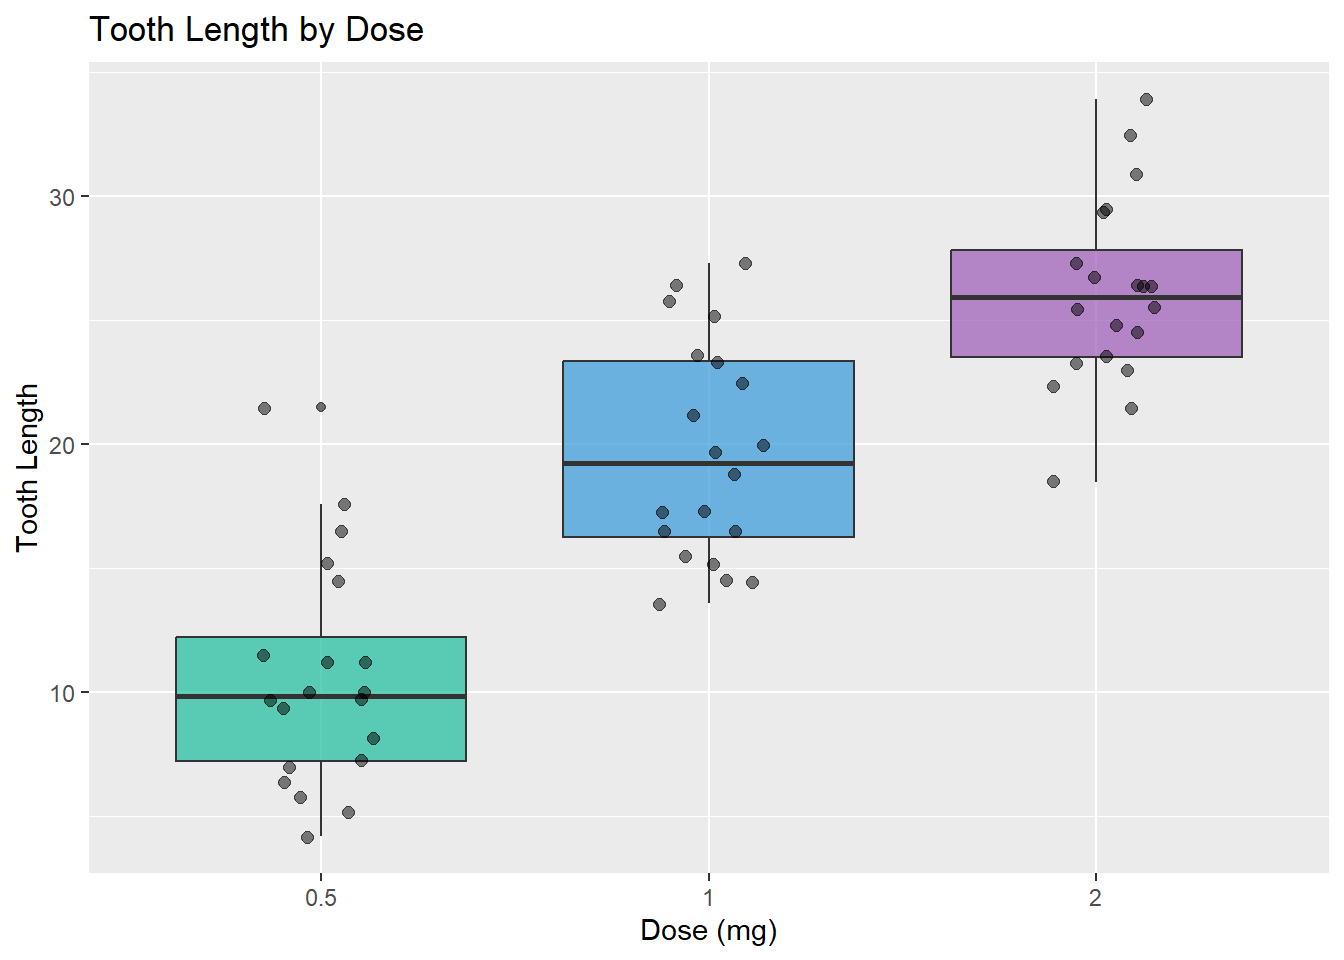
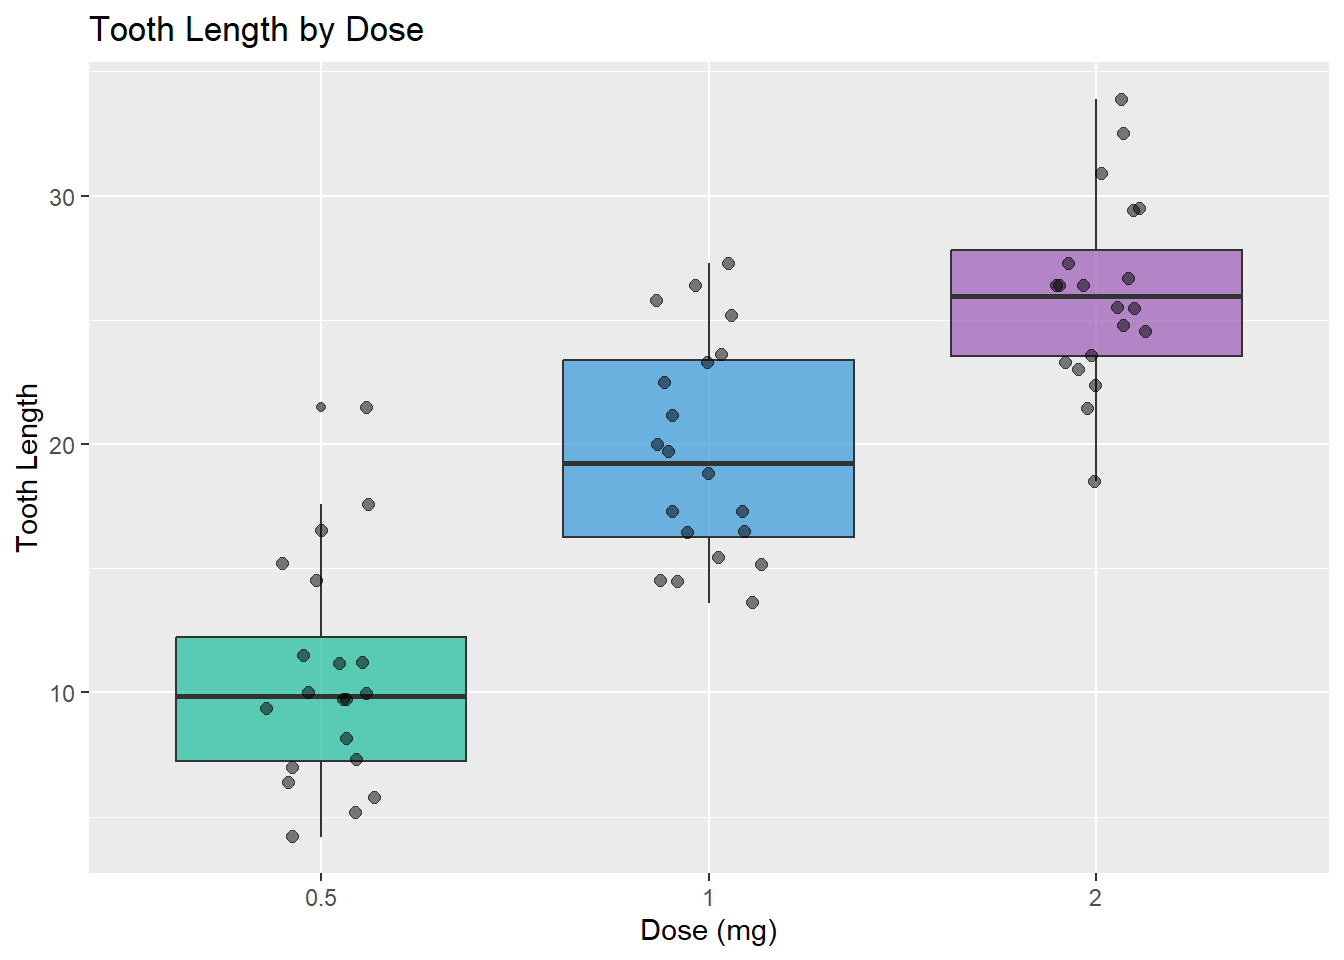
Built site for gh-pages

diff --git a/Lab/Lab.html b/Lab/Lab.html
@@ -140,7 +140,7 @@ pre > code.sourceCode > span > a:first-child::before { text-decoration: underlin
       <button type="button" class="quarto-btn-toggle btn" data-bs-toggle="collapse" role="button" data-bs-target=".quarto-sidebar-collapse-item" aria-controls="quarto-sidebar" aria-expanded="false" aria-label="Toggle sidebar navigation" onclick="if (window.quartoToggleHeadroom) { window.quartoToggleHeadroom(); }">
         <i class="bi bi-layout-text-sidebar-reverse"></i>
       </button>
-        <nav class="quarto-page-breadcrumbs" aria-label="breadcrumb"><ol class="breadcrumb"><li class="breadcrumb-item">Lab 2 - Exploratory Data Analysis</li></ol></nav>
+        <nav class="quarto-page-breadcrumbs" aria-label="breadcrumb"><ol class="breadcrumb"><li class="breadcrumb-item"><a href="../Lab/Lab.html">Group Project</a></li><li class="breadcrumb-item"><a href="../Lab/Lab.html">Lab</a></li></ol></nav>
         <a class="flex-grow-1" role="navigation" data-bs-toggle="collapse" data-bs-target=".quarto-sidebar-collapse-item" aria-controls="quarto-sidebar" aria-expanded="false" aria-label="Toggle sidebar navigation" onclick="if (window.quartoToggleHeadroom) { window.quartoToggleHeadroom(); }">      
         </a>
       <button type="button" class="btn quarto-search-button" aria-label="Search" onclick="window.quartoOpenSearch();">
@@ -230,7 +230,7 @@ pre > code.sourceCode > span > a:first-child::before { text-decoration: underlin
       <ul id="quarto-sidebar-section-2" class="collapse list-unstyled sidebar-section depth1 show">  
           <li class="sidebar-item">
   <div class="sidebar-item-container"> 
-  <a href="../Lab.qmd" class="sidebar-item-text sidebar-link">
+  <a href="../Lab/Lab.html" class="sidebar-item-text sidebar-link active">
  <span class="menu-text">Lab</span></a>
   </div>
 </li>
@@ -285,7 +285,7 @@ pre > code.sourceCode > span > a:first-child::before { text-decoration: underlin
 <!-- main -->
 <main class="content" id="quarto-document-content">
 
-<header id="title-block-header" class="quarto-title-block default">
+<header id="title-block-header" class="quarto-title-block default"><nav class="quarto-page-breadcrumbs quarto-title-breadcrumbs d-none d-lg-block" aria-label="breadcrumb"><ol class="breadcrumb"><li class="breadcrumb-item"><a href="../Lab/Lab.html">Group Project</a></li><li class="breadcrumb-item"><a href="../Lab/Lab.html">Lab</a></li></ol></nav>
 <div class="quarto-title">
 <h1 class="title">Lab 2 - Exploratory Data Analysis</h1>
 </div>

diff --git a/week-01.html b/week-01.html
@@ -229,7 +229,7 @@ pre > code.sourceCode > span > a:first-child::before { text-decoration: underlin
       <ul id="quarto-sidebar-section-2" class="collapse list-unstyled sidebar-section depth1 show">  
           <li class="sidebar-item">
   <div class="sidebar-item-container"> 
-  <a href="./Lab.qmd" class="sidebar-item-text sidebar-link">
+  <a href="./Lab/Lab.html" class="sidebar-item-text sidebar-link">
  <span class="menu-text">Lab</span></a>
   </div>
 </li>
@@ -290,7 +290,7 @@ pre > code.sourceCode > span > a:first-child::before { text-decoration: underlin
 <div class="code-copy-outer-scaffold"><div class="sourceCode cell-code" id="cb1"><pre class="sourceCode r code-with-copy"><code class="sourceCode r"><span id="cb1-1"><a href="#cb1-1" aria-hidden="true" tabindex="-1"></a>x <span class="ot">&lt;-</span> <span class="fu">rnorm</span>(<span class="dv">100</span>)</span>
 <span id="cb1-2"><a href="#cb1-2" aria-hidden="true" tabindex="-1"></a><span class="fu">mean</span>(x)</span></code></pre></div><button title="Copy to Clipboard" class="code-copy-button"><i class="bi"></i></button></div>
 <div class="cell-output cell-output-stdout">
-<pre><code>[1] 0.12207</code></pre>
+<pre><code>[1] 0.08019199</code></pre>
 </div>
 <div class="code-copy-outer-scaffold"><div class="sourceCode cell-code" id="cb3"><pre class="sourceCode r code-with-copy"><code class="sourceCode r"><span id="cb3-1"><a href="#cb3-1" aria-hidden="true" tabindex="-1"></a><span class="fu">hist</span>(x)</span></code></pre></div><button title="Copy to Clipboard" class="code-copy-button"><i class="bi"></i></button></div>
 <div class="cell-output-display">

diff --git a/week-02.html b/week-02.html
@@ -229,7 +229,7 @@ pre > code.sourceCode > span > a:first-child::before { text-decoration: underlin
       <ul id="quarto-sidebar-section-2" class="collapse list-unstyled sidebar-section depth1 show">  
           <li class="sidebar-item">
   <div class="sidebar-item-container"> 
-  <a href="./Lab.qmd" class="sidebar-item-text sidebar-link">
+  <a href="./Lab/Lab.html" class="sidebar-item-text sidebar-link">
  <span class="menu-text">Lab</span></a>
   </div>
 </li>

diff --git a/week-03.html b/week-03.html
@@ -229,7 +229,7 @@ pre > code.sourceCode > span > a:first-child::before { text-decoration: underlin
       <ul id="quarto-sidebar-section-2" class="collapse list-unstyled sidebar-section depth1 show">  
           <li class="sidebar-item">
   <div class="sidebar-item-container"> 
-  <a href="./Lab.qmd" class="sidebar-item-text sidebar-link">
+  <a href="./Lab/Lab.html" class="sidebar-item-text sidebar-link">
  <span class="menu-text">Lab</span></a>
   </div>
 </li>

diff --git a/week-04.html b/week-04.html
@@ -229,7 +229,7 @@ pre > code.sourceCode > span > a:first-child::before { text-decoration: underlin
       <ul id="quarto-sidebar-section-2" class="collapse list-unstyled sidebar-section depth1 show">  
           <li class="sidebar-item">
   <div class="sidebar-item-container"> 
-  <a href="./Lab.qmd" class="sidebar-item-text sidebar-link">
+  <a href="./Lab/Lab.html" class="sidebar-item-text sidebar-link">
  <span class="menu-text">Lab</span></a>
   </div>
 </li>

diff --git a/week-05.html b/week-05.html
@@ -229,7 +229,7 @@ pre > code.sourceCode > span > a:first-child::before { text-decoration: underlin
       <ul id="quarto-sidebar-section-2" class="collapse list-unstyled sidebar-section depth1 show">  
           <li class="sidebar-item">
   <div class="sidebar-item-container"> 
-  <a href="./Lab.qmd" class="sidebar-item-text sidebar-link">
+  <a href="./Lab/Lab.html" class="sidebar-item-text sidebar-link">
  <span class="menu-text">Lab</span></a>
   </div>
 </li>

diff --git a/week-06.html b/week-06.html
@@ -229,7 +229,7 @@ pre > code.sourceCode > span > a:first-child::before { text-decoration: underlin
       <ul id="quarto-sidebar-section-2" class="collapse list-unstyled sidebar-section depth1 show">  
           <li class="sidebar-item">
   <div class="sidebar-item-container"> 
-  <a href="./Lab.qmd" class="sidebar-item-text sidebar-link">
+  <a href="./Lab/Lab.html" class="sidebar-item-text sidebar-link">
  <span class="menu-text">Lab</span></a>
   </div>
 </li>

diff --git a/week-07.html b/week-07.html
@@ -229,7 +229,7 @@ pre > code.sourceCode > span > a:first-child::before { text-decoration: underlin
       <ul id="quarto-sidebar-section-2" class="collapse list-unstyled sidebar-section depth1 show">  
           <li class="sidebar-item">
   <div class="sidebar-item-container"> 
-  <a href="./Lab.qmd" class="sidebar-item-text sidebar-link">
+  <a href="./Lab/Lab.html" class="sidebar-item-text sidebar-link">
  <span class="menu-text">Lab</span></a>
   </div>
 </li>

diff --git a/GroupProject/Project.html b/GroupProject/Project.html
@@ -194,7 +194,7 @@ ul.task-list li input[type="checkbox"] {
       <ul id="quarto-sidebar-section-2" class="collapse list-unstyled sidebar-section depth1 show">  
           <li class="sidebar-item">
   <div class="sidebar-item-container"> 
-  <a href="../Lab.qmd" class="sidebar-item-text sidebar-link">
+  <a href="../Lab/Lab.html" class="sidebar-item-text sidebar-link">
  <span class="menu-text">Lab</span></a>
   </div>
 </li>

diff --git a/index.html b/index.html
@@ -194,7 +194,7 @@ ul.task-list li input[type="checkbox"] {
       <ul id="quarto-sidebar-section-2" class="collapse list-unstyled sidebar-section depth1 show">  
           <li class="sidebar-item">
   <div class="sidebar-item-container"> 
-  <a href="./Lab.qmd" class="sidebar-item-text sidebar-link">
+  <a href="./Lab/Lab.html" class="sidebar-item-text sidebar-link">
  <span class="menu-text">Lab</span></a>
   </div>
 </li>
